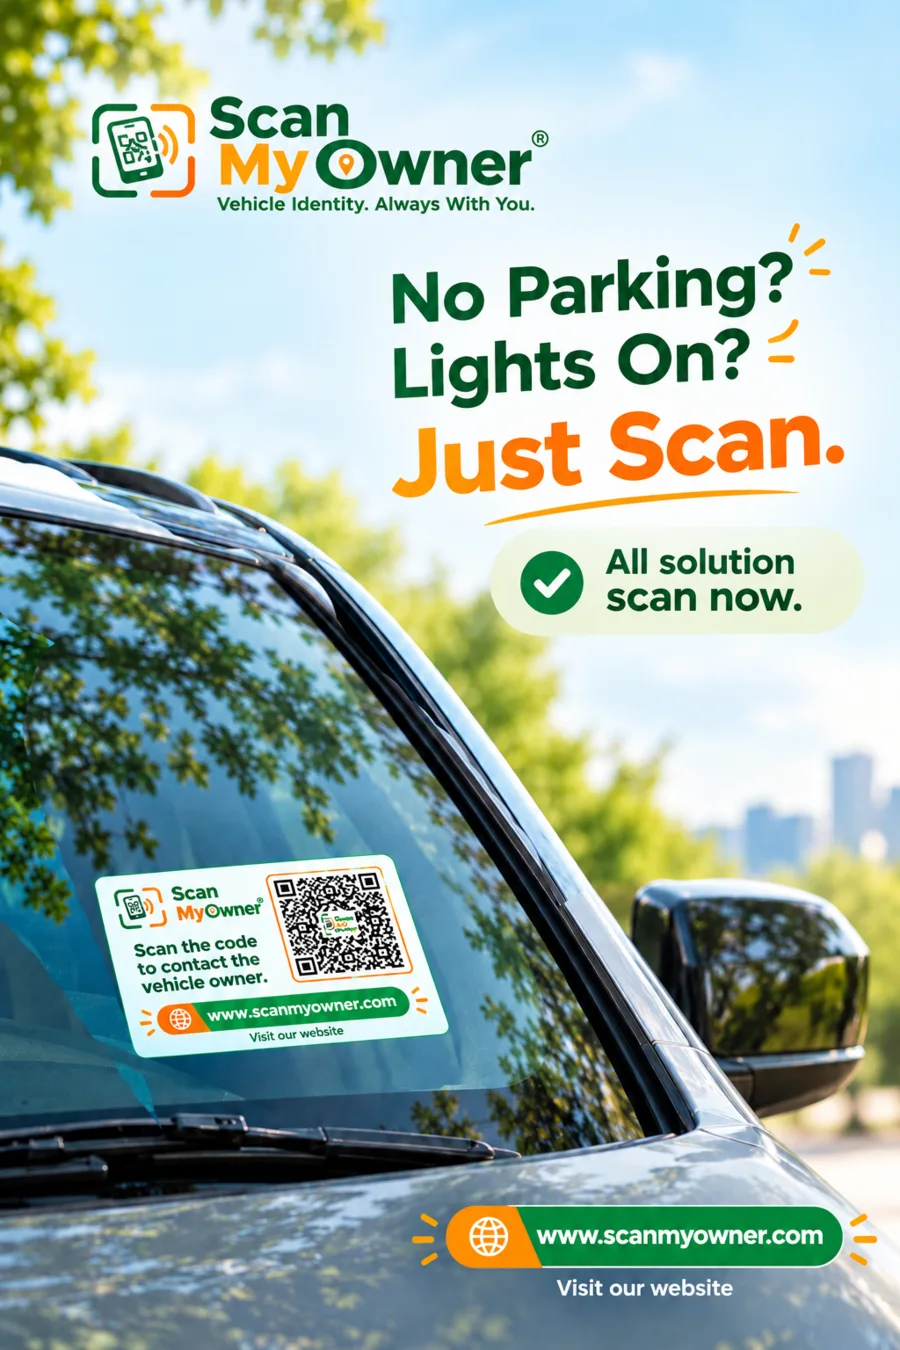
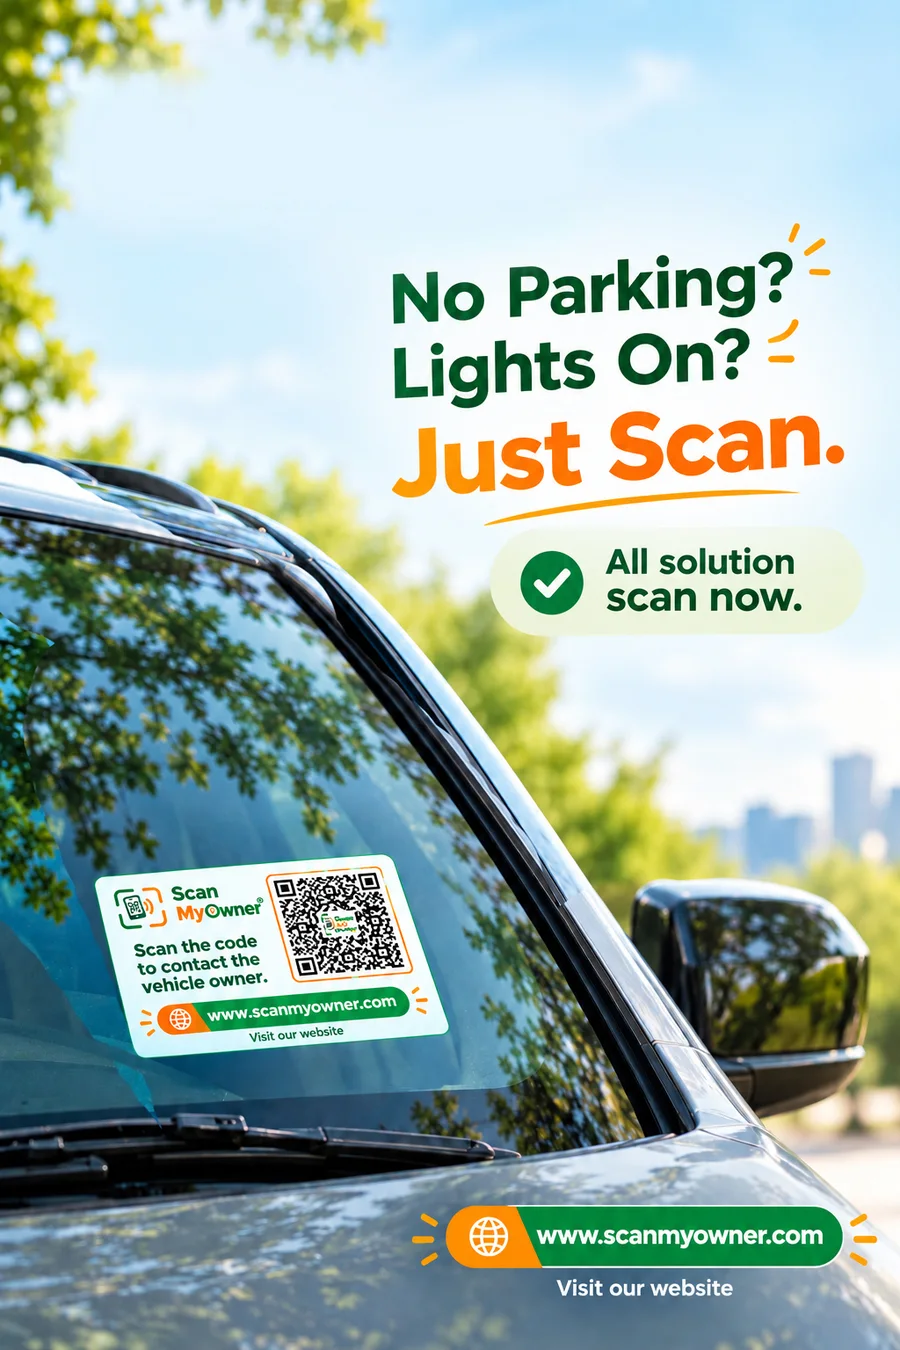
Update brand assets and refactor application styles and logic
Replit-Commit-Author: Agent

Changed region(s): [[0.0311, 0.0311, 0.6222, 0.1556]]

diff --git a/artifacts/scanmyowner/src/index.css b/artifacts/scanmyowner/src/index.css
@@ -552,35 +552,10 @@ h1,h2,h3,p { margin-top:0; }
 .lookup input { min-width:0; flex:1; border:0; outline:0; color:#223628; font-size:12px; }
 .lookup input::placeholder { color:#9aa69c; }
 .lookup .btn { min-height:39px; padding:8px 13px; font-size:11px; }
-.hero-visual { position:relative; min-height:500px; display:flex; align-items:center; justify-content:center; }
-.hero-scene { position:relative; width:100%; max-width:570px; height:500px; }
-.hero-photo-frame { position:absolute; left:0; top:65px; width:88%; height:355px; overflow:hidden; border:1px solid #d8e8da; border-radius:26px; box-shadow:0 28px 75px #164a2b24; background:#edf3ea; }
-.hero-photo-frame:after { content:""; position:absolute; inset:45% 0 0; background:linear-gradient(transparent,#102f1d72); pointer-events:none; }
-.hero-vehicle-image { display:block; width:100%; height:100%; object-fit:cover; object-position:center 54%; }
-.hero-card-overlay { position:absolute; z-index:2; left:17px; bottom:20px; width:min(43%,220px); overflow:hidden; border:2px solid #fff; border-radius:12px; box-shadow:0 12px 30px #10231840; transform:rotate(-2deg); }
-.hero-card-overlay img { display:block; width:100%; height:auto; }
-.hero-photo-caption { position:absolute; z-index:1; right:18px; bottom:22px; display:flex; align-items:center; gap:8px; color:white; font-size:9px; font-weight:800; letter-spacing:1px; text-shadow:0 1px 5px #10231880; }
-.hero-photo-caption i,.hero-alert-request>i,.strip-icon i { width:7px;height:7px;border-radius:50%;background:#ff7a00;box-shadow:0 0 0 4px #ff7a0020; }
-.hero-phone { position:absolute; z-index:3; top:0; right:0; width:218px; min-height:430px; padding:15px 14px 16px; border:7px solid #183522; border-radius:33px; background:#fff; box-shadow:0 28px 70px #12361e35,0 0 0 1px #ffffff; }
-.hero-phone-notch { position:absolute; top:6px; left:50%; width:73px; height:13px; transform:translateX(-50%); border-radius:0 0 9px 9px; background:#183522; }
-.hero-phone-status { display:flex; justify-content:space-between; padding:1px 4px 12px; color:#607064; font-size:8px; font-weight:700; }
-.hero-phone-brand { display:flex; align-items:center; gap:7px; padding:5px 0 13px; border-bottom:1px solid #edf1ed; color:#164a2b; font-size:10px; font-weight:850; }
-.hero-phone-brand img { width:24px;height:24px;border-radius:7px;object-fit:cover; }
-.hero-phone h2 { margin:15px 0 3px; color:#17221a; font-size:16px; letter-spacing:-.6px; }
-.hero-phone>p { margin:0 0 12px; color:#768378; font-size:8px; line-height:1.45; }
-.hero-phone-options { display:grid; gap:6px; }
-.hero-phone-option { display:flex; align-items:center; gap:7px; min-height:37px; padding:6px 8px; border:1px solid #edf0ed; border-radius:9px; color:#304336; font-size:9px; font-weight:750; }
-.hero-phone-option svg:last-child { margin-left:auto; color:#829287; }
-.hero-phone-option-1>svg:first-child { color:#e46e00; }.hero-phone-option-2>svg:first-child { color:#ad7a00; }.hero-phone-option-3>svg:first-child { color:#c35651; }.hero-phone-option-4>svg:first-child { color:#2e7d32; }
-.hero-phone-option-1 { background:#fff8f2; }.hero-phone-option-2 { background:#fffbee; }.hero-phone-option-3 { background:#fff7f6; }.hero-phone-option-4 { background:#f4fbf5; }
-.hero-phone-private { display:flex; align-items:center; justify-content:center; gap:5px; margin-top:13px; color:#2e7d32; font-size:8px; font-weight:750; }
-.hero-alert { position:absolute; z-index:4; display:flex; align-items:center; gap:9px; border:1px solid #e5eae5; border-radius:13px; background:#fff; box-shadow:0 14px 34px #12361e1a; }
-.hero-alert-request { left:0; bottom:20px; padding:11px 13px; }
-.hero-alert-request strong,.hero-alert-request small { display:block; }
-.hero-alert-request strong { color:#25392a; font-size:9px; line-height:1.3; }.hero-alert-request small { margin-top:3px; color:#758178; font-size:8px; }
-.hero-alert-icon { display:grid;place-items:center;width:31px;height:31px;border-radius:9px;background:#fff0e3;color:#e46e00; }
-.hero-alert-private { top:35px; left:3px; padding:8px 11px; color:#245b2e; font-size:9px; font-weight:800; }
-.hero-alert-private svg { color:#2e7d32; }
+.hero-visual { position:relative; min-height:0; display:flex; align-items:center; justify-content:center; }
+.hero-campaign-banner { width:100%;max-width:570px;margin:0;padding:7px;border:1px solid #d8e8da;border-radius:22px;background:#fff;box-shadow:0 24px 60px #164a2b20; }
+.hero-campaign-banner img { display:block;width:100%;height:auto;border-radius:15px; }
+.strip-icon i { width:7px;height:7px;border-radius:50%;background:#ff7a00;box-shadow:0 0 0 4px #ff7a0020; }
 .trust-strip { background:#e8f7ec; border-top:1px solid #d3ead7; border-bottom:1px solid #d3ead7; }
 .strip-items { display:grid; grid-template-columns:repeat(4,1fr); padding:17px 0; }
 .strip-item { display:flex; align-items:center; justify-content:center; gap:10px; color:#36573c; font-size:10px; letter-spacing:.8px; font-weight:850; }
@@ -662,15 +637,12 @@ h1,h2,h3,p { margin-top:0; }
 .privacy-layout p {color:#66736a;line-height:1.8;max-width:520px;}
 .privacy-points { display:flex;flex-wrap:wrap;gap:9px;margin-top:27px; }
 .privacy-points span { display:flex;align-items:center;gap:7px;background:#fff;border:1px solid #efe6cb;border-radius:20px;padding:9px 12px;font-size:11px;font-weight:700;color:#415746; }
-.privacy-diagram { position:relative;background:linear-gradient(145deg,#fff 0%,#fffdf7 100%);border:1px solid #eee5ce;border-radius:20px;padding:24px 30px 25px;max-width:440px;margin:auto;width:100%;box-shadow:0 18px 42px #53431a0c; }
-.privacy-shield { position:relative;display:flex;align-items:center;justify-content:center;gap:10px;width:max-content;margin:0 auto 13px;padding:11px 17px;border:1px solid #d9eadb;border-radius:14px;background:#f3fbf5;color:#2e7d32;font-size:9px;font-weight:850;letter-spacing:1px; }
-.privacy-shield i { position:absolute;top:-3px;right:-3px;width:7px;height:7px;border-radius:50%;background:#ff7a00;box-shadow:0 0 0 4px #ff7a001d; }
-.privacy-shield svg { width:29px;height:29px;padding:5px;border-radius:8px;background:#e8f7ec; }
-.flow-node { display:flex;align-items:center;justify-content:center;gap:11px;padding:14px;color:#415746;font-size:12px;font-weight:750; }
-.flow-node.brand-node {background:#f3fbf5;color:#164a2b;border:1px solid #e0eee2;border-radius:10px;}
-.flow-node img { width:27px;height:27px;object-fit:cover;border-radius:7px; }
-.flow-arrow { text-align:center;color:#75aa79;line-height:1.4; }
-.flow-lock { text-align:center;display:flex;justify-content:center;align-items:center;gap:7px;color:#2e7d32;font-size:11px;font-weight:800;margin-top:15px; }
+.privacy-campaign-image { display:block;width:min(100%,370px);max-height:555px;height:auto;object-fit:contain;margin:0 auto;border:1px solid #eee5ce;border-radius:18px;box-shadow:0 18px 42px #53431a12; }
+.everyday-promo { padding:28px 0 72px;background:#fff8e8; }
+.everyday-promo-card { display:grid;grid-template-columns:minmax(0,1fr) 260px;align-items:center;gap:36px;padding:28px 38px;border:1px solid #eee5ce;border-radius:20px;background:#fff;box-shadow:0 14px 38px #53431a0d; }
+.everyday-promo-copy h2 { max-width:520px;margin:13px 0;color:#17271c;font-size:clamp(30px,4vw,42px);line-height:1.12;letter-spacing:-1.7px; }
+.everyday-promo-copy p { max-width:490px;margin:0 0 20px;color:#718076;line-height:1.8; }
+.everyday-promo-card>img { display:block;width:100%;height:auto;max-height:390px;object-fit:contain;border-radius:12px; }
 .vehicle-section { background:#fff; }
 .vehicle-layout { display:grid;grid-template-columns:.85fr 1.15fr;gap:55px;align-items:center; }
 .vehicle-preview { min-height:325px;background:radial-gradient(ellipse at 50% 42%,#fff 0,#f3fbf5 58%);border:1px solid #d9e7dc;border-radius:20px;display:flex;align-items:center;justify-content:center;position:relative;overflow:hidden;box-shadow:inset 0 1px #fff; }
@@ -716,12 +688,6 @@ h1,h2,h3,p { margin-top:0; }
 .feature-qr-product img {display:block;width:100%;border-radius:9px;transform:rotate(-2deg);}
 .feature-qr-product span {display:flex;align-items:center;gap:7px;margin-top:9px;color:#e6f3e8;font-size:8px;font-weight:850;letter-spacing:1px;}
 .feature-qr-product i {width:6px;height:6px;border-radius:50%;background:#ff7a00;}
-.campaign-section {background:#f8fbf6;}
-.campaign-gallery {display:grid;grid-template-columns:repeat(3,minmax(0,1fr));align-items:start;gap:16px;}
-.campaign-card {margin:0;overflow:hidden;border:1px solid #e0e9e1;border-radius:16px;background:#fff;box-shadow:0 12px 30px #164a2b0c;transition:transform .2s ease,box-shadow .2s ease;}
-.campaign-card:hover {transform:translateY(-3px);box-shadow:0 18px 36px #164a2b16;}
-.campaign-card img {display:block;width:100%;height:auto;}
-.campaign-card-wide {grid-column:1 / -1;}
 .expansion-section {padding:76px 0;background:#fff;}
 .expansion-panel {background:transparent;border-radius:0;padding:0;text-align:center;border:0;}
 .expansion-panel h2 {max-width:540px;margin:12px auto 9px;}
@@ -761,6 +727,12 @@ h1,h2,h3,p { margin-top:0; }
 .cta-art {display:flex;align-items:center;gap:17px;}
 .cta-art img {width:120px;height:74px;border-radius:10px;object-fit:contain;background:#fff;border:2px solid #ffffff70;box-shadow:0 12px 26px #08281538;transform:rotate(-3deg);}
 .footer {background:#103a22;border-top:1px solid #ffffff20;padding:37px 0 22px;color:#fff;}
+.footer-campaign {display:grid;grid-template-columns:minmax(0,1fr) 146px;align-items:center;gap:30px;margin-bottom:34px;padding:23px 30px;border:1px solid #ffffff28;border-radius:18px;background:#164a2b;}
+.footer-campaign-copy {max-width:650px;}
+.footer-campaign-label {display:block;margin-bottom:9px;color:#a8dbad;font-size:9px;font-weight:850;letter-spacing:1.2px;text-transform:uppercase;}
+.footer-campaign-copy h2 {margin:0 0 8px;color:#fff;font-size:clamp(22px,3vw,30px);line-height:1.18;letter-spacing:-.8px;}
+.footer-campaign-copy p {margin:0 0 17px;color:#d1e2d3;font-size:12px;}
+.footer-campaign>img {display:block;width:100%;height:auto;max-height:219px;object-fit:contain;border:2px solid #ffffff75;border-radius:10px;box-shadow:0 12px 26px #08281538;}
 .footer-main {display:flex;justify-content:space-between;gap:30px;align-items:flex-start;padding-bottom:28px;}
 .footer .brand-word,.footer .brand-word>span {color:#fff;}.footer .brand-word>strong {color:#91d198;}.footer .brand-word small {color:#c2d8c5;}
 .footer-desc {max-width:280px;color:#d3e5d5;font-size:12px;margin:12px 0 0;}
@@ -808,30 +780,33 @@ h1,h2,h3,p { margin-top:0; }
 .route-link {color:#2e7d32;text-decoration:underline;text-underline-offset:3px;}
 .not-found {text-align:center;padding:100px 24px;}
 @media(max-width:900px) {
- .navlinks{gap:17px}.nav-actions{gap:12px}.hero-grid{gap:26px}.hero-visual{min-height:380px}
+ .navlinks{gap:17px}.nav-actions{gap:12px}.hero-grid{gap:26px}
  .phone-layout{gap:40px}.privacy-layout{gap:45px}.vehicle-layout{gap:28px}
+ .everyday-promo-card{grid-template-columns:minmax(0,1fr) 230px;gap:24px;padding:25px 28px;}
+ .footer-campaign{grid-template-columns:minmax(0,1fr) 130px;gap:22px;}
  .situation-grid{grid-template-columns:repeat(2,1fr)}.bento{grid-template-columns:1fr 1fr}.feature:nth-child(1){grid-row:span 1;min-height:200px}.feature:nth-child(4){grid-column:auto}
 }
 @media(max-width:700px) {
  .container{width:min(100% - 36px,540px)}
  .nav{height:66px}.brand img{width:42px;height:42px}.brand-word{font-size:15px}
  .navlinks,.nav-actions{display:none}.menu-button{display:flex}.mobile-menu.open{display:block}
-  .hero{padding:43px 0 35px}.hero-grid{grid-template-columns:1fr;gap:15px}.hero h1{font-size:43px;letter-spacing:-2.5px;margin:16px 0}.hero-copy{font-size:14px;margin-bottom:20px}.hero-visual{min-height:0;padding:10px 0 40px}.hero-photo-frame{aspect-ratio:1.2;border-radius:14px}.hero-card-overlay{left:10px;bottom:10px;width:min(49%,220px)}.product-badge{right:0;top:8px;bottom:auto;padding:9px 11px;font-size:9px}.product-badge strong{font-size:10px}
+   .hero{padding:43px 0 35px}.hero-grid{grid-template-columns:1fr;gap:15px}.hero h1{font-size:43px;letter-spacing:-2.5px;margin:16px 0}.hero-copy{font-size:14px;margin-bottom:20px}.hero-visual{min-height:0;padding:10px 0 15px}.hero-campaign-banner{padding:5px;border-radius:15px}.hero-campaign-banner img{border-radius:10px}
  .trust-points{gap:10px 14px;font-size:10px}.lookup{margin-top:21px}.lookup input{font-size:10px}.lookup .btn{font-size:10px;padding:8px}
  .strip-items{grid-template-columns:1fr 1fr;gap:15px;padding:18px 0}.strip-item{justify-content:flex-start;font-size:9px}.strip-item:not(:last-child){border:0}
  .section{padding:65px 0}.section-head{margin-bottom:30px}.section-head h2,.section h2{font-size:33px;letter-spacing:-1.3px}.section-head p{font-size:13px}
  .situation-grid{gap:10px}.situation{min-height:169px;padding:16px}.situation h3{font-size:10px}.situation p{font-size:11px}.icon-tile{width:36px;height:36px;margin-bottom:13px}
  .steps-grid{grid-template-columns:1fr;gap:26px}.steps-grid:before{top:25px;bottom:25px;left:calc(50% - .5px);right:auto;width:1px;height:auto}.step{padding:0}.step-number{width:52px;height:52px;margin-bottom:13px;background:#fff8e8}.step p{font-size:12px}
  .phone-layout{grid-template-columns:1fr;gap:35px}.phone{width:270px}.phone-inner{min-height:478px}.phone-copy{order:-1;text-align:center}.phone-copy h2{margin-left:auto;margin-right:auto}.phone-copy>p{font-size:13px;margin-left:auto;margin-right:auto}.benefits{max-width:310px;margin:23px auto 0;text-align:left;gap:13px}.benefits li{font-size:12px}
- .privacy-layout{grid-template-columns:1fr;gap:30px}.privacy-layout h2{font-size:34px}.privacy-layout>div:first-child{text-align:center}.privacy-layout>div:first-child p{margin-left:auto;margin-right:auto;font-size:13px}.privacy-points{justify-content:center}
+  .privacy-layout{grid-template-columns:1fr;gap:30px}.privacy-layout h2{font-size:34px}.privacy-layout>div:first-child{text-align:center}.privacy-layout>div:first-child p{margin-left:auto;margin-right:auto;font-size:13px}.privacy-points{justify-content:center}.privacy-campaign-image{width:min(100%,330px)}
  .vehicle-layout{grid-template-columns:1fr;gap:18px}.vehicle-preview{min-height:250px;order:2}.config-panel{padding:17px}.type-tabs{grid-template-columns:repeat(3,1fr)}
  .bento{grid-template-columns:1fr 1fr;gap:9px}.feature{min-height:155px;padding:17px}.feature:nth-child(1){grid-column:1 / -1;min-height:180px}.feature:nth-child(6){grid-column:1 / -1}.feature h3{font-size:10px}.feature p{font-size:11px}.feature-icon{margin-bottom:13px}
-  .campaign-gallery{grid-template-columns:repeat(2,minmax(0,1fr));gap:10px}.campaign-card-wide{grid-column:1 / -1}.campaign-card{border-radius:12px}
+  .everyday-promo{padding:16px 0 52px}.everyday-promo-card{grid-template-columns:1fr;gap:22px;padding:22px}.everyday-promo-copy{text-align:center}.everyday-promo-copy .eyebrow{justify-content:center}.everyday-promo-copy p{margin-left:auto;margin-right:auto;font-size:12px}.everyday-promo-card>img{width:min(100%,230px);margin:0 auto}
  .expansion-section{padding:48px 0}.expansion-panel{padding:31px 18px}.category-row{gap:8px}.category{padding:10px 11px;font-size:10px}
  .pricing-grid{grid-template-columns:1fr;gap:23px;max-width:440px}.price-card{padding:24px}.price{font-size:38px}
  .faq-question{font-size:13px;padding:17px 2px}.faq-answer p{font-size:12px;padding-right:22px}
  .cta{padding:43px 0}.cta-inner{display:block;text-align:center}.cta h2{font-size:34px;margin:0 auto 12px}.cta p{font-size:12px;margin-bottom:23px}.cta-art{justify-content:center}.cta-art img{width:82px;height:58px}
- .footer-main{display:block}.footer-links{margin-top:23px;gap:13px 17px}.footer-bottom{gap:12px;flex-wrap:wrap}
+  .footer-campaign{grid-template-columns:minmax(0,1fr) 90px;gap:12px;margin-bottom:27px;padding:17px;border-radius:14px}.footer-campaign-copy h2{font-size:20px}.footer-campaign-copy p{font-size:11px}.footer-campaign>img{width:90px;max-height:150px;border-radius:8px}.footer-campaign .btn{min-height:40px;padding:9px 12px;font-size:11px}
+  .footer-main{display:block}.footer-links{margin-top:23px;gap:13px 17px}.footer-bottom{gap:12px;flex-wrap:wrap}
  .page-hero{padding:48px 0 37px}.page-hero h1{font-size:38px}.page-body{padding:38px 0 60px}
  .contact-grid{grid-template-columns:1fr;gap:20px}.contact-aside{padding:23px}.login-shell{padding:24px 18px}
  .tag-page{padding:25px 0 50px}.tag-card{padding:20px 16px}.tag-card h1{font-size:21px}

diff --git a/artifacts/scanmyowner/src/App.tsx b/artifacts/scanmyowner/src/App.tsx
@@ -4,9 +4,9 @@ import { ErrorBoundary } from '@/components/error-boundary';
 import { Toaster } from '@/components/ui/toaster';
 import { TooltipProvider } from '@/components/ui/tooltip';
 import {
-  ArrowDown, ArrowRight, Bike, CarFront, Check, CircleHelp,
+  ArrowRight, Bike, CarFront, Check, CircleHelp,
   Clock3, Heart, KeyRound, LockKeyhole, Menu, MessageCircle, Package,
-  Plus, Search, ShieldCheck, Smartphone, Sparkles, UserRound,
+  Plus, Search, ShieldCheck, Smartphone, Sparkles,
   X, Zap,
 } from 'lucide-react';
 import { Link, Route, Switch, useLocation, Router as WouterRouter } from 'wouter';
@@ -15,7 +15,10 @@ import NotFound from '@/pages/not-found';
 const queryClient = new QueryClient();
 const logo = '/brand/scanmyowner-logo.webp';
 const cardImage = '/brand/qr-contact-card.jpg';
-const heroVehicleImage = '/brand/vehicle-lifestyle.jpg';
+const heroBannerImage = '/brand/campaign-vehicle-safe.webp';
+const parkingCampaignImage = '/brand/campaign-no-parking.webp';
+const privacyCampaignImage = '/brand/campaign-private-vehicle.webp';
+const footerCampaignImage = '/brand/campaign-scan-owner.webp';
 const navItems = [
   { text: 'How it works', href: '/how-it-works' },
   { text: 'Features', href: '/#features' },
@@ -73,6 +76,15 @@ function Header() {
 function Footer() {
   return <footer className="footer">
     <div className="container">
+      <div className="footer-campaign">
+        <div className="footer-campaign-copy">
+          <span className="footer-campaign-label">A smarter way to stay connected</span>
+          <h2>Your vehicle. Your privacy. One simple scan.</h2>
+          <p>Give people a better way to reach you when it matters.</p>
+          <Link className="btn btn-orange" href="/vehicle" data-testid="footer-campaign-cta">Get your QR tag <ArrowRight size={15} /></Link>
+        </div>
+        <img src={footerCampaignImage} alt="ScanMyOwner QR tag on a vehicle with ways to contact the owner" loading="lazy" />
+      </div>
       <div className="footer-main">
         <div><Brand footer /><p className="footer-desc">Scan. Connect. Stay Private.</p></div>
         <nav className="footer-links" aria-label="Footer navigation">
@@ -180,13 +192,7 @@ function PrivacySection() {
     <div><Eyebrow>Privacy, built in</Eyebrow><h2>Your number stays private.</h2><p>Your QR tag connects people to you without putting your personal number on display. A simpler way to be reachable, on your terms.</p>
       <div className="privacy-points"><span><LockKeyhole size={14} />Private contact</span><span><MessageCircle size={14} />Simple communication</span><span><ShieldCheck size={14} />Less personal information exposed</span></div>
     </div>
-    <div className="privacy-diagram" data-testid="diagram-private-contact">
-      <div className="privacy-shield"><ShieldCheck size={34} /><span>PRIVATE BY DESIGN</span><i /></div>
-      <div className="flow-node"><Smartphone size={18} /> SCANNER</div><div className="flow-arrow"><ArrowDown size={18} /></div>
-      <div className="flow-node brand-node"><img src={logo} alt="" /> SCANMYOWNER</div><div className="flow-arrow"><ArrowDown size={18} /></div>
-      <div className="flow-node"><UserRound size={18} /> OWNER</div>
-      <div className="flow-lock"><LockKeyhole size={15} /> Private contact</div>
-    </div>
+    <img className="privacy-campaign-image" src={privacyCampaignImage} alt="ScanMyOwner privacy campaign showing a connected vehicle and the message “Your Number Private. Your Vehicle Connected.”" loading="lazy" />
   </div></section>;
 }
 
@@ -243,37 +249,17 @@ function FeaturesBento() {
   </div></section>;
 }
 
-const campaignImages = [
-  {
-    src: '/brand/campaign-vehicle-safe.webp',
-    alt: 'ScanMyOwner campaign showing a tagged vehicle with the message “Your Vehicle Always Safe.”',
-    className: 'campaign-card-wide',
-  },
-  {
-    src: '/brand/campaign-private-vehicle.webp',
-    alt: 'A ScanMyOwner tag on a white SUV with the message “Your Number Private. Your Vehicle Connected.”',
-  },
-  {
-    src: '/brand/campaign-no-parking.webp',
-    alt: 'A vehicle tag beside the message “No Parking? Lights On? Just Scan.”',
-  },
-  {
-    src: '/brand/campaign-scan-owner.webp',
-    alt: 'A car windshield tag and QR code with ways to contact the vehicle owner.',
-  },
-];
-function CampaignGallery() {
-  return <section className="section campaign-section" id="campaigns">
+function EverydayScanPromo() {
+  return <section className="everyday-promo">
     <div className="container">
-      <div className="section-head">
-        <Eyebrow>ScanMyOwner in everyday life</Eyebrow>
-        <h2>Stay connected. Keep your number private.</h2>
-        <p>A simple scan helps people reach you when your vehicle needs attention.</p>
-      </div>
-      <div className="campaign-gallery">
-        {campaignImages.map(({ src, alt, className }) => <figure className={`campaign-card${className ? ` ${className}` : ''}`} key={src}>
-          <img src={src} alt={alt} loading="lazy" />
-        </figure>)}
+      <div className="everyday-promo-card">
+        <div className="everyday-promo-copy">
+          <Eyebrow>When something comes up</Eyebrow>
+          <h2>No parking? Lights on? One quick scan.</h2>
+          <p>Let someone reach you about your vehicle without putting your personal number on display.</p>
+          <Link className="btn btn-primary" href="/how-it-works">See how it works <ArrowRight size={15} /></Link>
+        </div>
+        <img src={parkingCampaignImage} alt="ScanMyOwner campaign showing a windshield QR tag beside the message “No Parking? Lights On? Just Scan.”" loading="lazy" />
       </div>
     </div>
   </section>;
@@ -342,24 +328,17 @@ function Hero() {
       <div className="trust-points"><span><Check size={14} />Private contact</span><span><Check size={14} />No app needed</span><span><Check size={14} />Works with any phone</span></div>
       <SearchLookup />
     </div>
-     <div className="hero-visual"><div className="hero-scene" data-testid="hero-product-scene">
-       <div className="hero-photo-frame"><img className="hero-vehicle-image" src={heroVehicleImage} alt="A modern white SUV with a ScanMyOwner contact tag on its windshield" data-testid="img-hero-vehicle" /><div className="hero-card-overlay"><img src={cardImage} alt="ScanMyOwner QR contact card" data-testid="img-qr-product-card" /></div><div className="hero-photo-caption"><i /> TAG SMO-247 · ACTIVE</div></div>
-       <div className="hero-phone" aria-label="ScanMyOwner phone preview">
-         <div className="hero-phone-notch" /><div className="hero-phone-status"><span>9:41</span><span>•••</span></div>
-         <div className="hero-phone-brand"><img src={logo} alt="" />ScanMyOwner</div>
-         <h2>How can we help?</h2><p>Choose a reason to reach the owner</p>
-         <div className="hero-phone-options">{reasons.slice(0, 4).map(({ label, Icon }, i) => <div className={`hero-phone-option hero-phone-option-${i + 1}`} key={label}><Icon size={14} /><span>{label}</span><ArrowRight size={12} /></div>)}</div>
-         <div className="hero-phone-private"><LockKeyhole size={11} />Your number stays private</div>
-       </div>
-       <div className="hero-alert hero-alert-request"><span className="hero-alert-icon"><MessageCircle size={16} /></span><span><strong>Owner contact request</strong><small>Someone needs your attention</small></span><i /></div>
-       <div className="hero-alert hero-alert-private"><LockKeyhole size={13} /><span>Private connection</span></div>
-     </div></div>
+     <div className="hero-visual">
+       <figure className="hero-campaign-banner" data-testid="hero-campaign-banner">
+         <img src={heroBannerImage} alt="ScanMyOwner banner showing a dark SUV with a QR tag and the message “Your Vehicle Always Safe.”" />
+       </figure>
+     </div>
   </div></section>;
 }
 
 function Home() {
   return <><Meta title="ScanMyOwner — Scan. Connect. Stay Private." description="A smart QR contact tag for your vehicle. Let people reach you when it matters, without exposing your personal number." />
-    <Shell><main><Hero /><TrustStrip /><ProblemSection /><HowSteps /><PhoneDemo /><PrivacySection /><VehicleConfigurator /><FeaturesBento /><CampaignGallery /><ProductExpansion /><PricingCards /><FAQSection /><FinalCTA /></main></Shell>
+    <Shell><main><Hero /><TrustStrip /><ProblemSection /><EverydayScanPromo /><HowSteps /><PhoneDemo /><PrivacySection /><VehicleConfigurator /><FeaturesBento /><ProductExpansion /><PricingCards /><FAQSection /><FinalCTA /></main></Shell>
   </>;
 }
 
